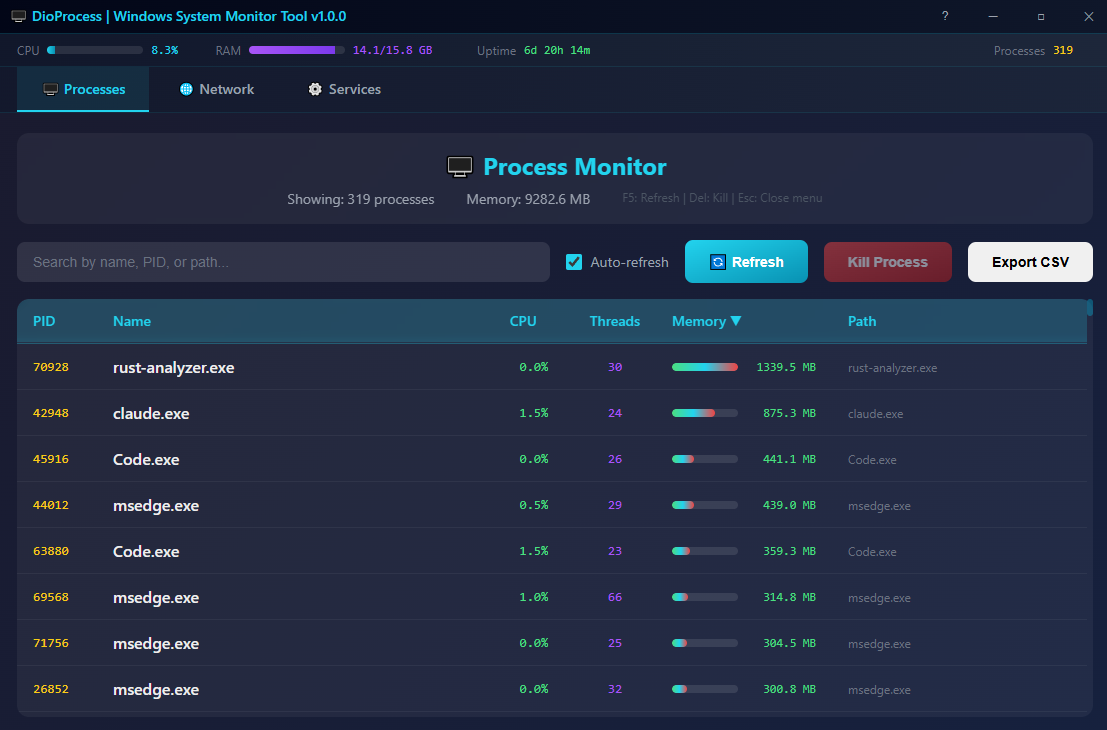
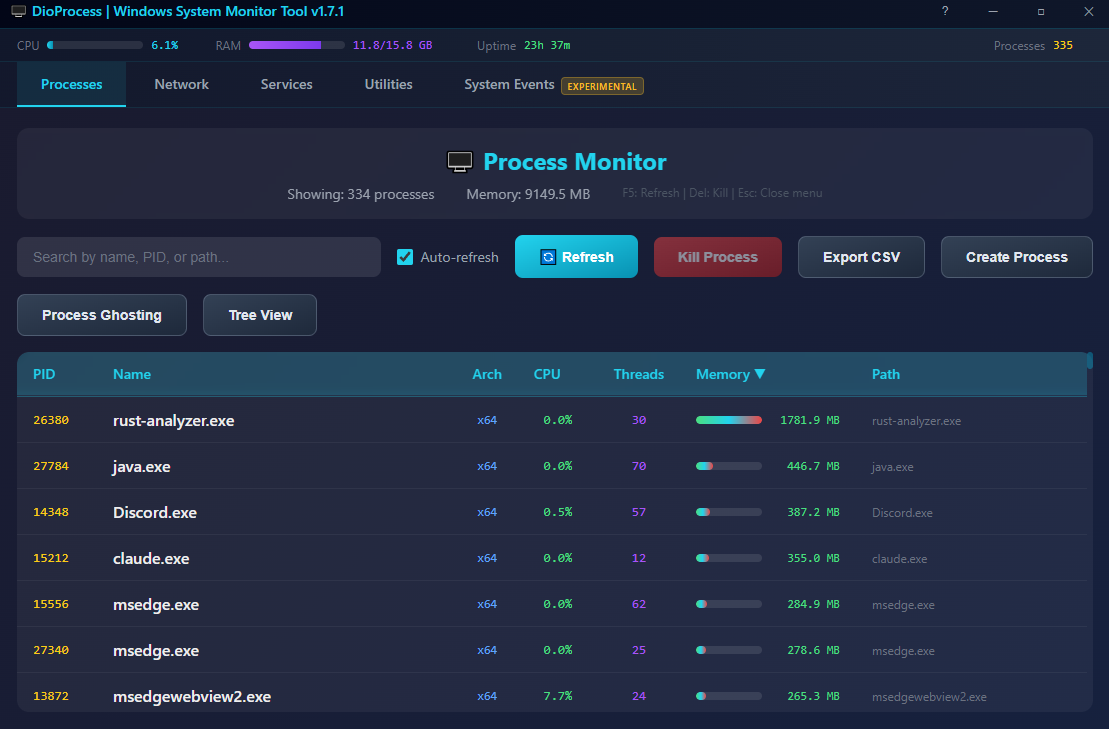
feat: update readme preview

diff --git a/README.md b/README.md
@@ -7,6 +7,9 @@ Built with **Rust 2021** + **Dioxus 0.6** (desktop renderer)
 ![Preview 1](./assets/preview1.png)
 ![Preview 2](./assets/preview2.png)
 ![Preview 3](./assets/preview3.png)
+![Preview 2](./assets/preview4.png)
+![Preview 3](./assets/preview5.png)
+
 
 [![Rust](https://img.shields.io/badge/Rust-2021-orange?logo=rust)](https://www.rust-lang.org)
 [![Windows](https://img.shields.io/badge/Platform-Windows-blue?logo=windows)](https://microsoft.com/windows)
